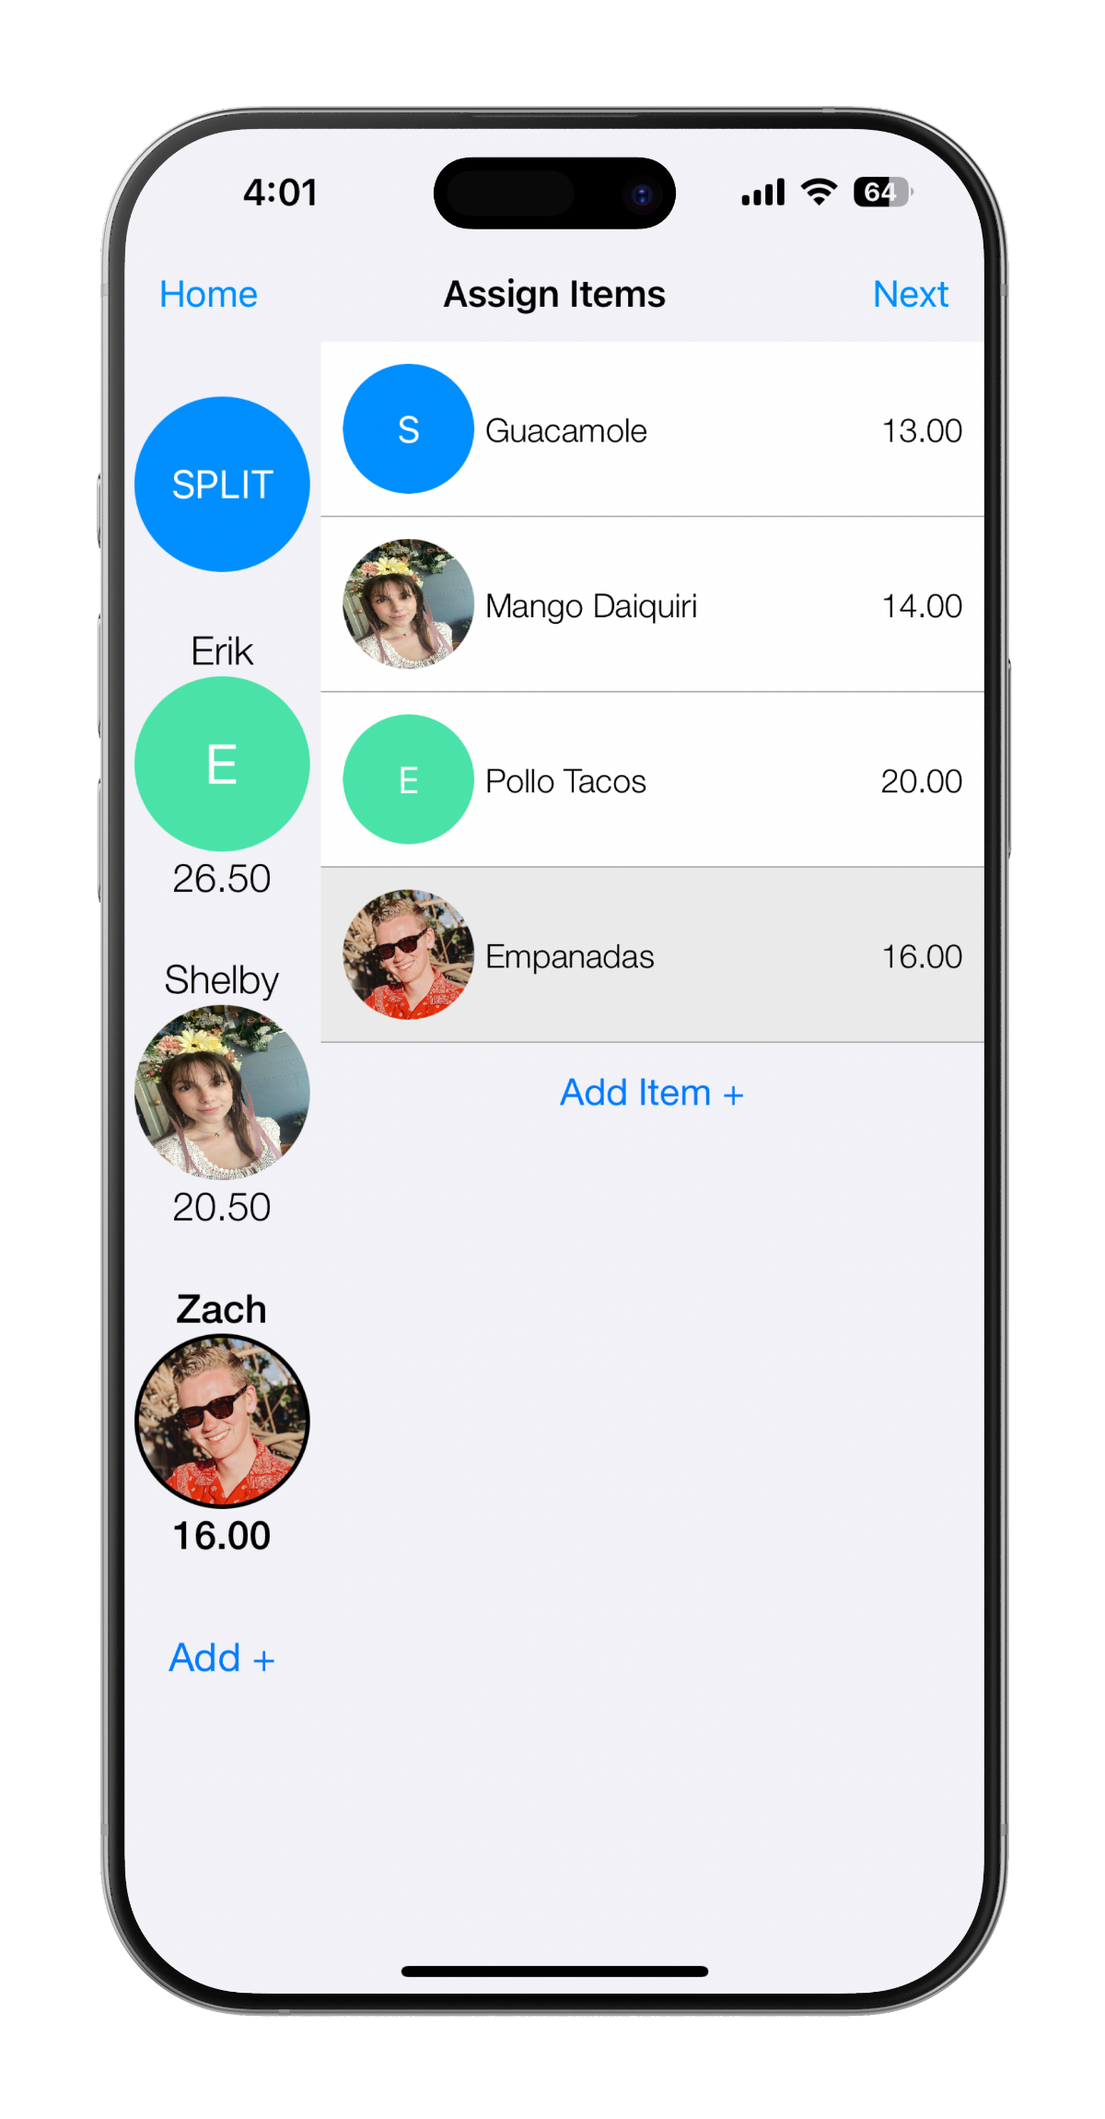
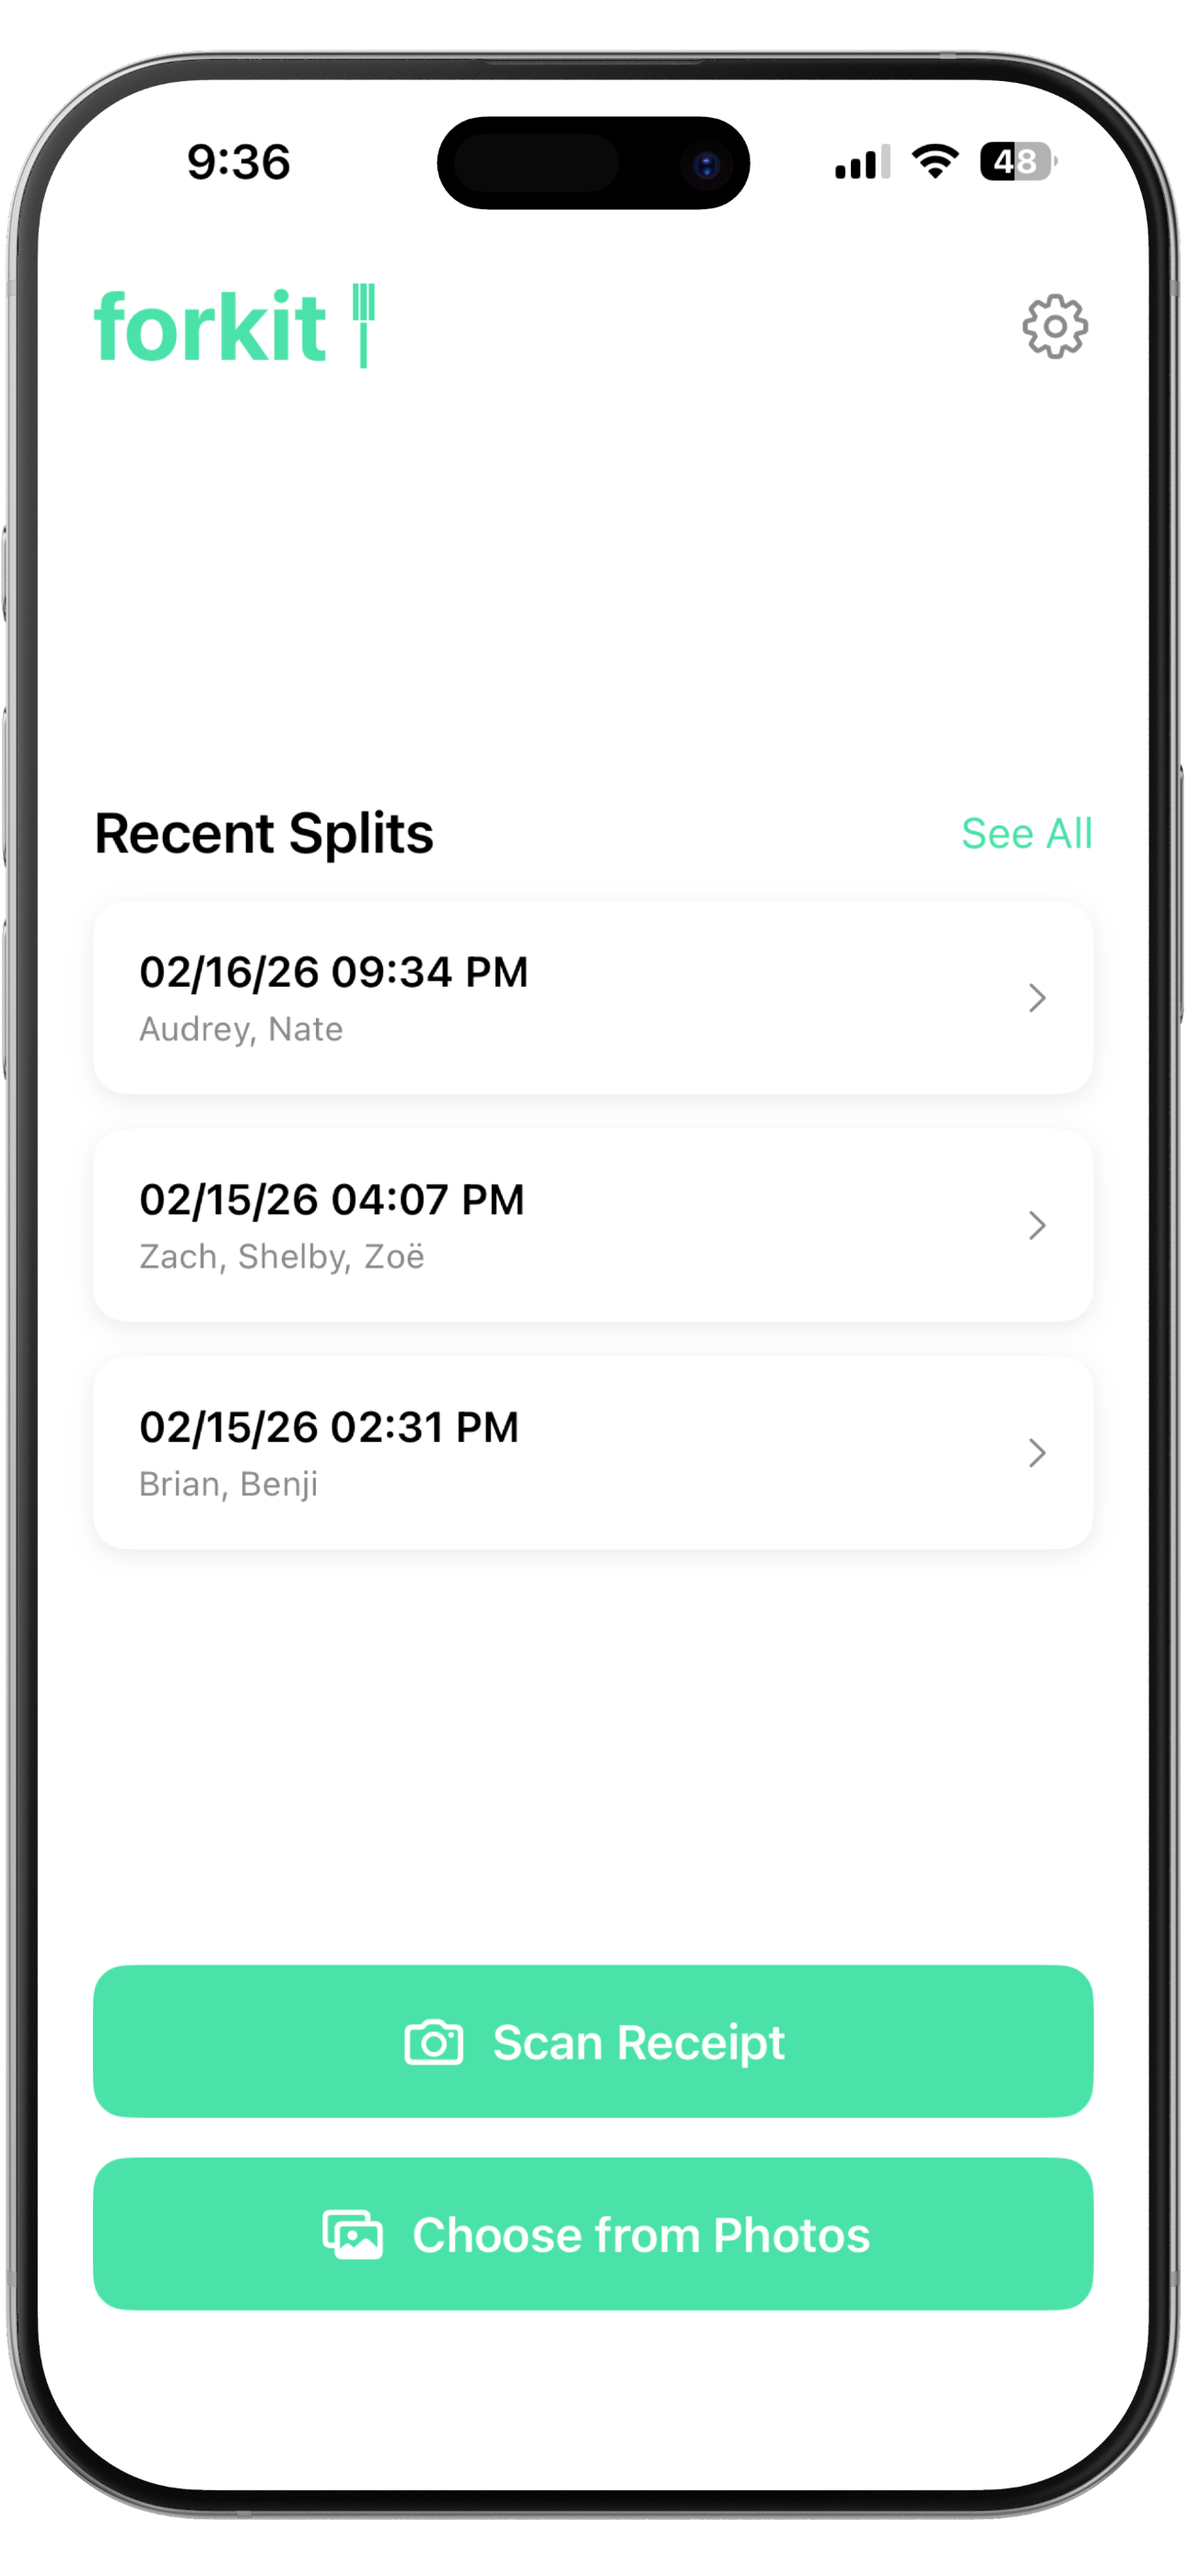
Swap photos of main screen

diff --git a/src/pages/Home.css b/src/pages/Home.css
@@ -50,7 +50,7 @@
 
 .featured-banner {
   background: linear-gradient(145deg, #2dd4a0, #4AE2A9, #6ee7b7);
-  padding: 40px 40px 0;
+  padding: 40px 40px 20px;
   display: flex;
   justify-content: center;
   overflow: hidden;
@@ -59,12 +59,11 @@
 .featured-mockup {
   max-height: 360px;
   width: auto;
-  transform: translateY(8px);
   transition: transform 0.3s ease;
 }
 
 .featured-card:hover .featured-mockup {
-  transform: translateY(0);
+  transform: translateY(-4px);
 }
 
 .featured-body {
@@ -154,7 +153,7 @@
   }
 
   .featured-banner {
-    padding: 28px 28px 0;
+    padding: 28px 28px 20px;
   }
 
   .featured-mockup {

diff --git a/src/pages/AppDetail.css b/src/pages/AppDetail.css
@@ -12,7 +12,7 @@
 
 .detail-hero-banner {
   background: linear-gradient(145deg, #2dd4a0, #4AE2A9, #6ee7b7);
-  padding: 48px 48px 0;
+  padding: 48px 48px 20px;
   display: flex;
   justify-content: center;
   overflow: hidden;
@@ -21,7 +21,7 @@
 .detail-hero-mockup {
   max-height: 400px;
   width: auto;
-  transform: translateY(8px);
+  transform: translateY(0);
 }
 
 .detail-info {
@@ -128,7 +128,7 @@
 
 @media (max-width: 600px) {
   .detail-hero-banner {
-    padding: 32px 32px 0;
+    padding: 32px 32px 20px;
   }
 
   .detail-hero-mockup {
